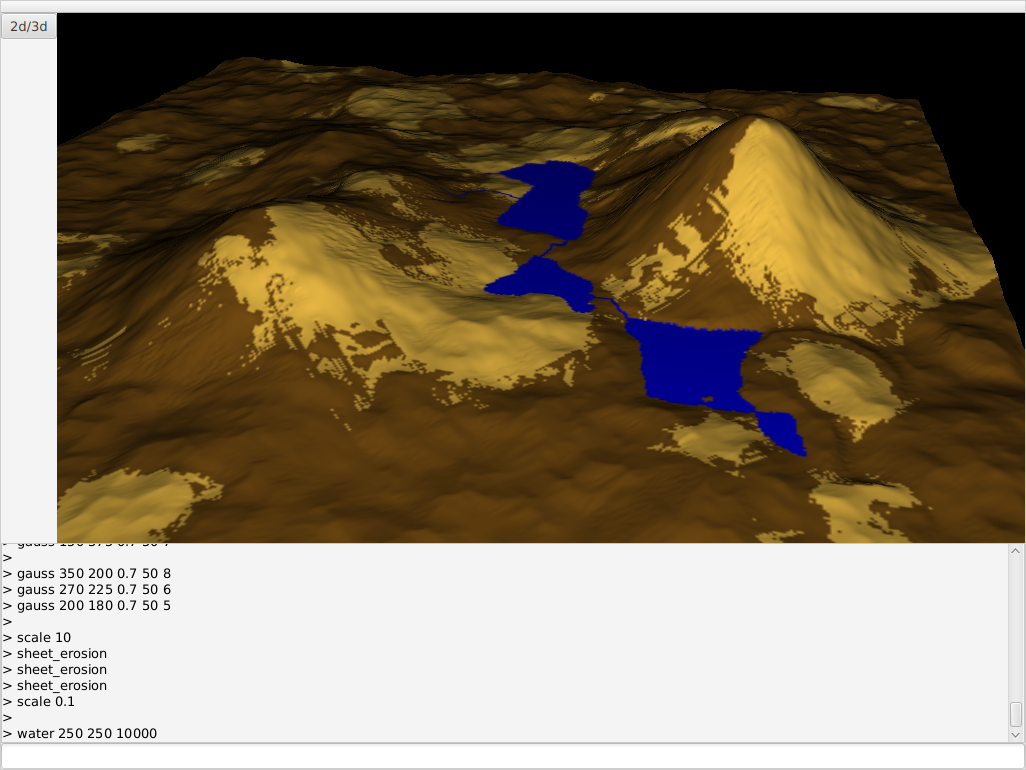
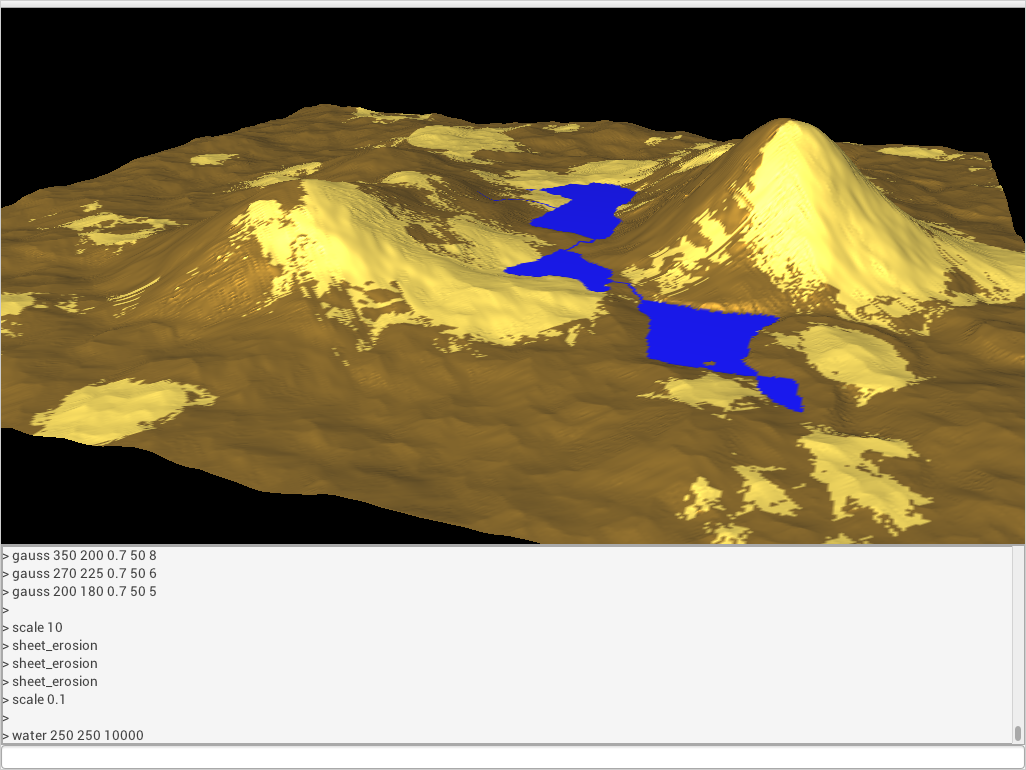
Remove last traces of JavaFX from the documentation, update the screenshot.

diff --git a/documentation/manual.md b/documentation/manual.md
@@ -2,12 +2,12 @@
 
 Plortz is a software written in Java to generate rectangular areas of terrains suitable to be used in games etc. The terrains consists of data points to define the landscape elevation data and other attributes, such as the type of the land (for example dirt, sand, snow, water). These are commonly referred to as heightmaps.
 
-Plortz has two user interfaces, the default graphical using JavaFX, and a commandline. The user issues commands and can see the results immediately in the GUI. The results can be written to Targa files.
+Plortz has two user interfaces, the default graphical using LWJGUI, and a commandline. The user issues commands and can see the results immediately in the GUI. The results can be written to Targa files.
 
 ## Requirements
 Java 11, LWJGL, LWJGUI, and their requirements.
 
-Maven is used for build automation, and might be easier to use also for running the program as it will automatically download JavaFX and set the appropriate module loading stuffs.
+Maven is used for build automation, and is the primary way of running this program.
 
 ## Maven goals:
 * Checkstyle: ```mvn jxr:jxr checkstyle:checkstyle```
@@ -31,9 +31,9 @@ To output the timing information, start with ```--timing``` argument, for exampl
 ## Graphical user interface
 The window is split into three parts. <img align="right" src="../screenshot.png" width="400px">
 
-Starting from top, a 2d or 3d view is shown. The current mode of the view can be toggled with the button "2d/3d" on the top-left corner.
+Starting from top, a 3d view is shown.
 
-In the 3d mode the mouse and keyboard can be used to rotate and move around. Hold mouse button down on the view and move mouse to rotate, also while holding the mouse button down WASD -keys can be used to move relative to the current looking direction. The mousewheel can be used to adjust the movement speed.
+The mouse and keyboard can be used to rotate and move around. Hold mouse button down on the view and move mouse to rotate, also while holding the mouse button down WASD -keys can be used to move relative to the current looking direction. The mousewheel can be used to adjust the movement speed.
 
 In the middle of the window a messages and history of commands view is shown.
 
